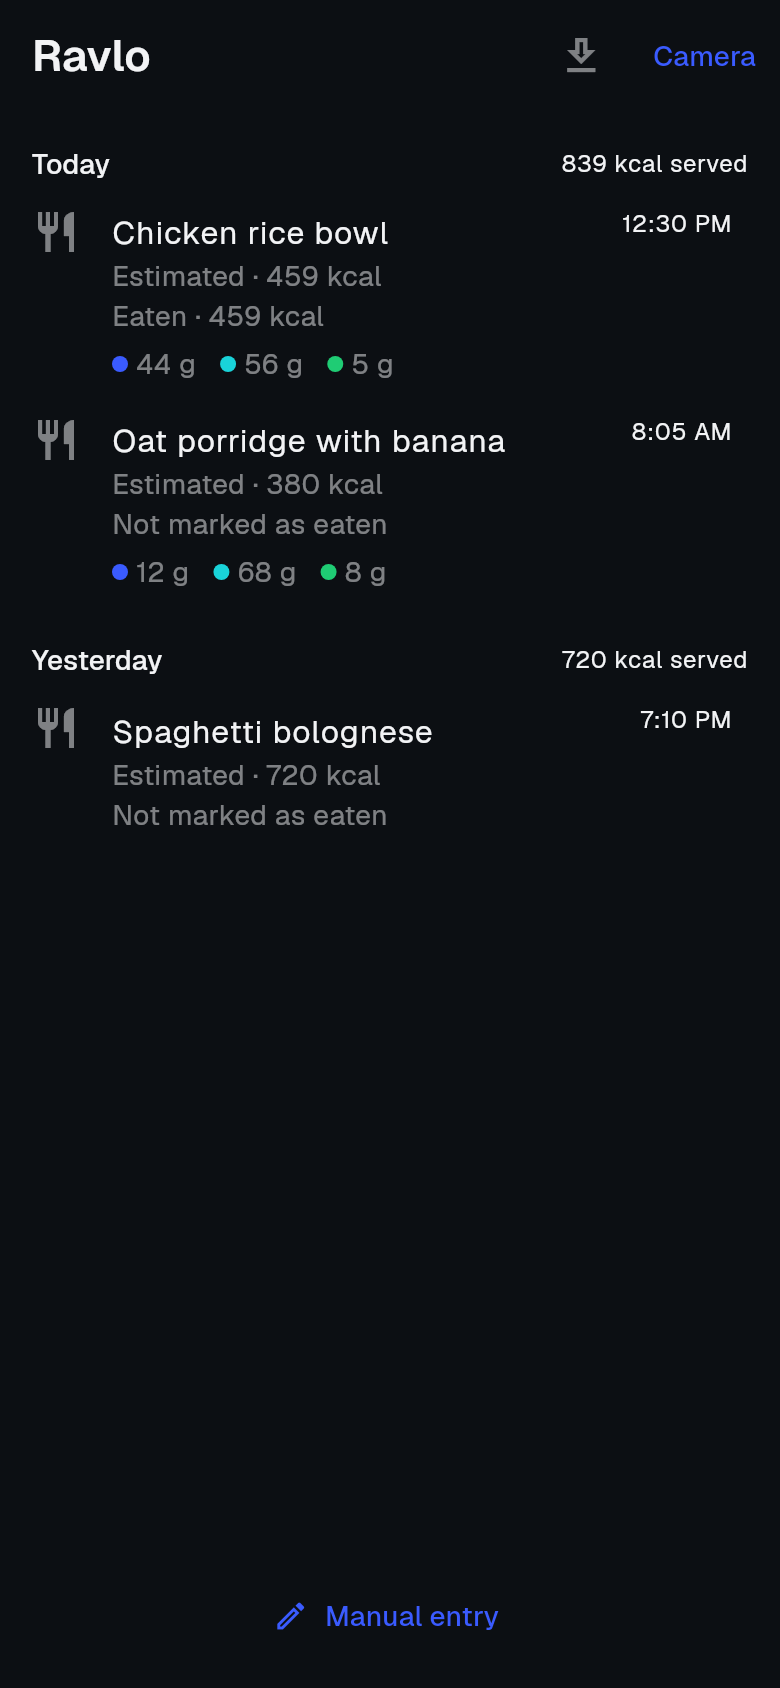
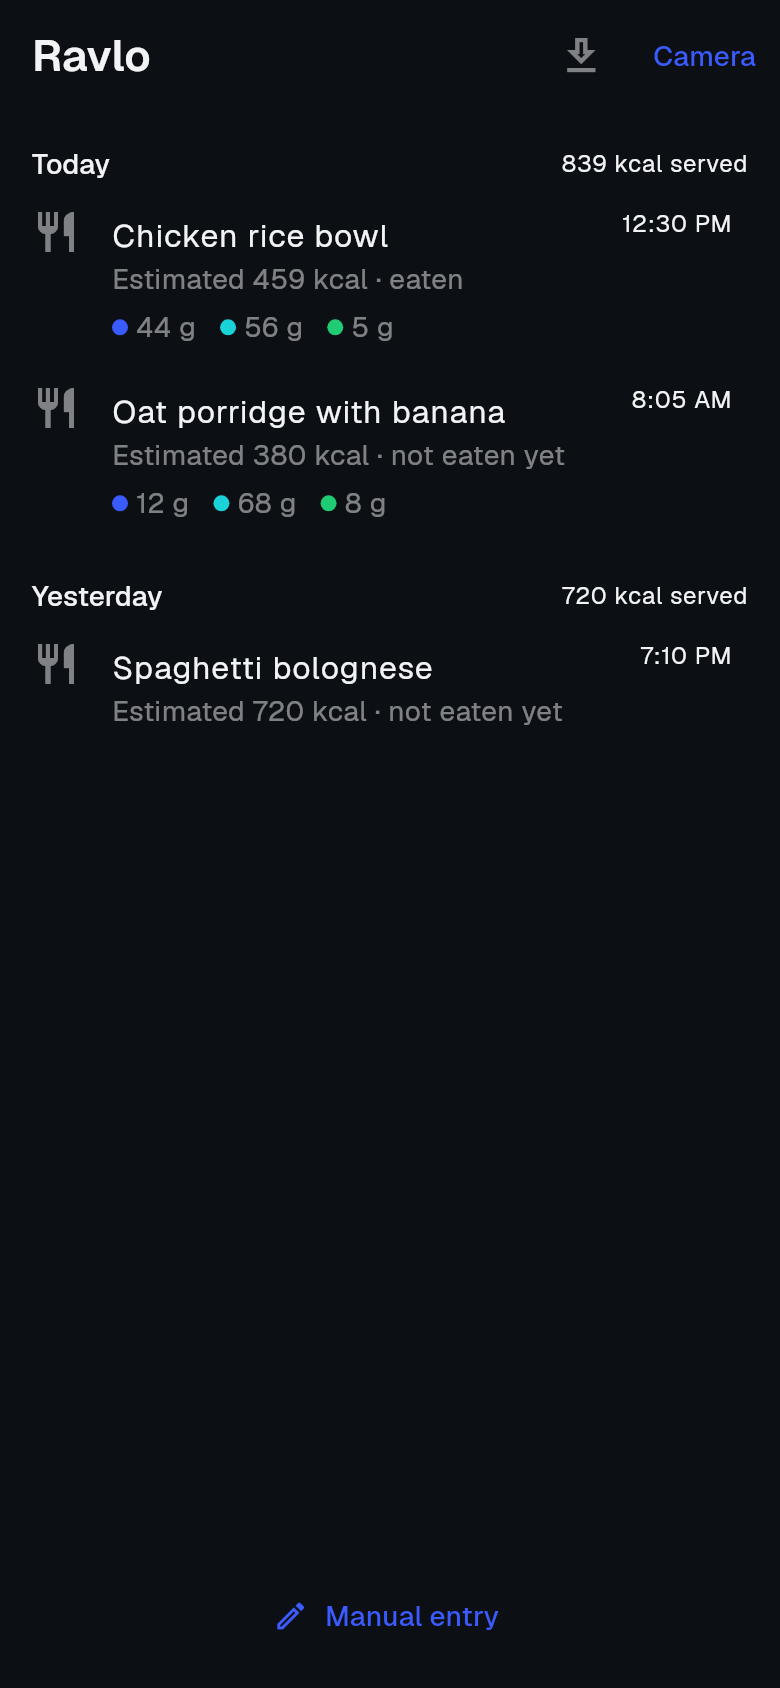
Record the one-line history status in the Tier1 handover because the screenshots changed with it

diff --git a/docs/UI_REVIEW_AND_HANDOVER_2026-11-14.md b/docs/UI_REVIEW_AND_HANDOVER_2026-11-14.md
@@ -42,7 +42,7 @@ colors, no daily total, no ring, and the app bar says "AppName".
 
 **Status of the list below (update after every fix):** 2, 3, 4, 7 DONE in worktree `356aa55` + `80afa21` (Gemini review asked for delete to stay visible at every revision; applied. Export alone waits for the first save.) (plus the cause of 7:
 the dark theme's seeded `onPrimary` was dark navy; both schemes now state it in `lib/core/theme/app_theme.dart`).
-1 is DONE in `6ac0c58`: the owner named the app **Ravlo** on 2026-11-15 (display name only: constant, Android label, iOS bundle names; package ids and the repo name stay `calorix`). 5 and 8 DONE in `48d9424` (day headers with served totals, time and macro dots per row, a today line on home; test added). 6 (plain wording) is DONE in `7115ccf` (owner said yes on 2026-11-15): "Estimated calories", "Not marked as eaten", "Eaten · N kcal", "Estimated from the photo", "From the food database" (the record id is no longer shown), field label "Calories (kcal)", button "Clear eaten mark". The home and history totals still say "kcal served". Lesson from 5: never call `toLocal()` on a clock value in Tier1; test clocks hand out `TZDateTime` and it throws without the timezone database (use `_localTime`). Grok's free limit ran
+1 is DONE in `6ac0c58`: the owner named the app **Ravlo** on 2026-11-15 (display name only: constant, Android label, iOS bundle names; package ids and the repo name stay `calorix`). 5 and 8 DONE in `48d9424` (day headers with served totals, time and macro dots per row, a today line on home; test added). 6 (plain wording) is DONE in `7115ccf` (owner said yes on 2026-11-15): "Estimated calories", "Not marked as eaten", "Eaten · N kcal", "Estimated from the photo", "From the food database" (the record id is no longer shown), field label "Calories (kcal)", button "Clear eaten mark". The home and history totals still say "kcal served". History rows carry one status line since `4f81013` ("Estimated 459 kcal · eaten" / "· not eaten yet" / "· eaten 230 kcal"), and row photos have rounded corners. Lesson from 5: never call `toLocal()` on a clock value in Tier1; test clocks hand out `TZDateTime` and it throws without the timezone database (use `_localTime`). Grok's free limit ran
 out on its first task on 2026-11-15, so the main host made these edits directly, as the owner allowed.
 
 **Photo estimate screen (the core result, rendered as `06`–`08`):** DONE in `f7ecd0c`: recognized foods are cards,
